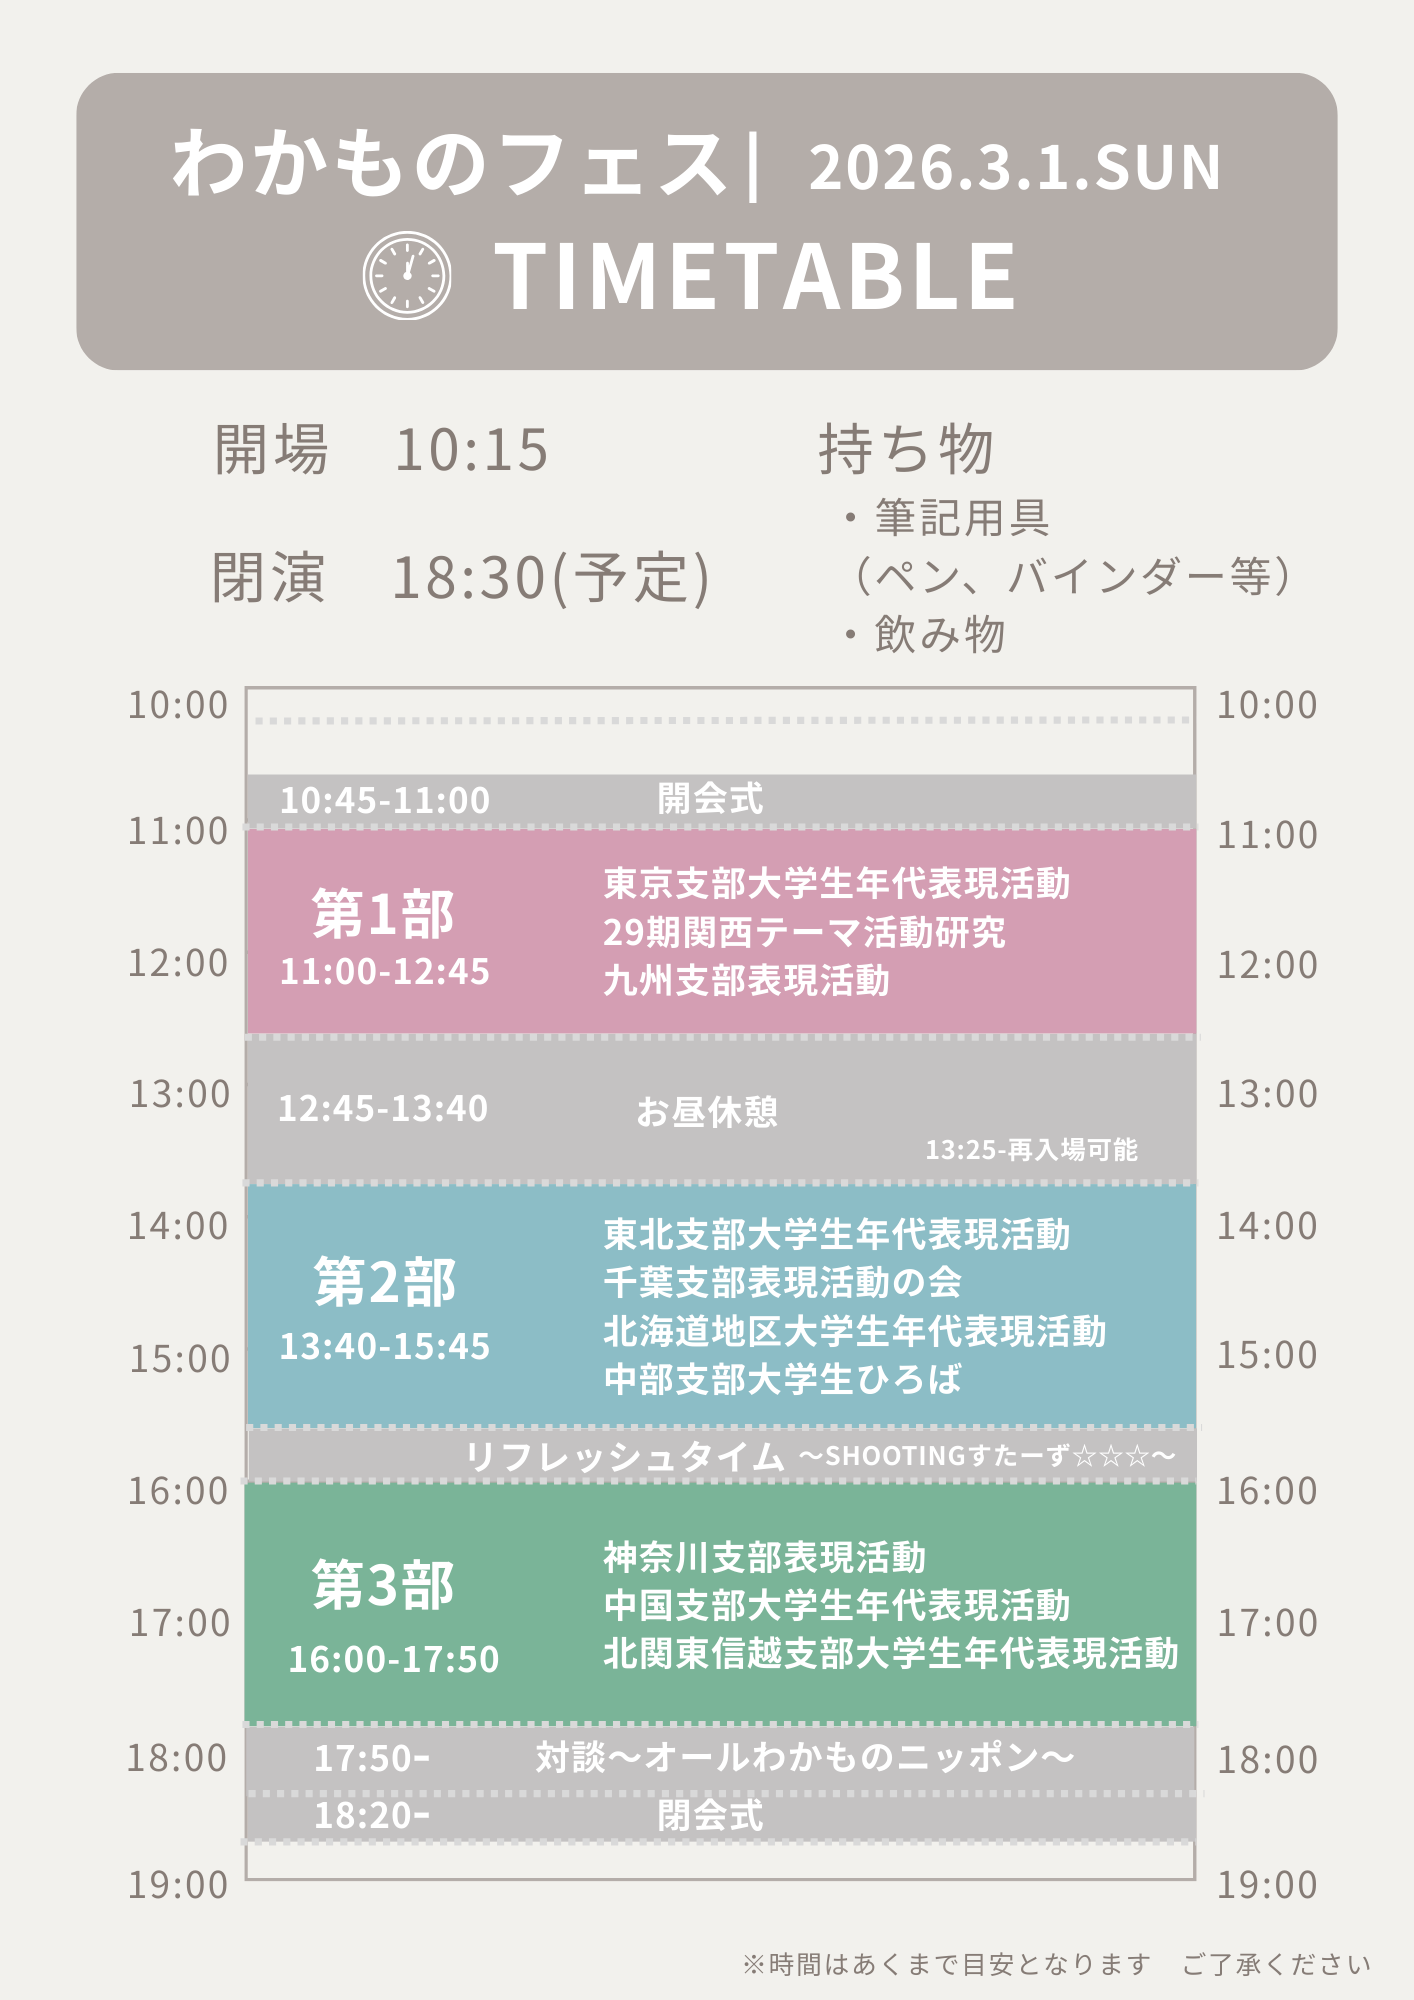
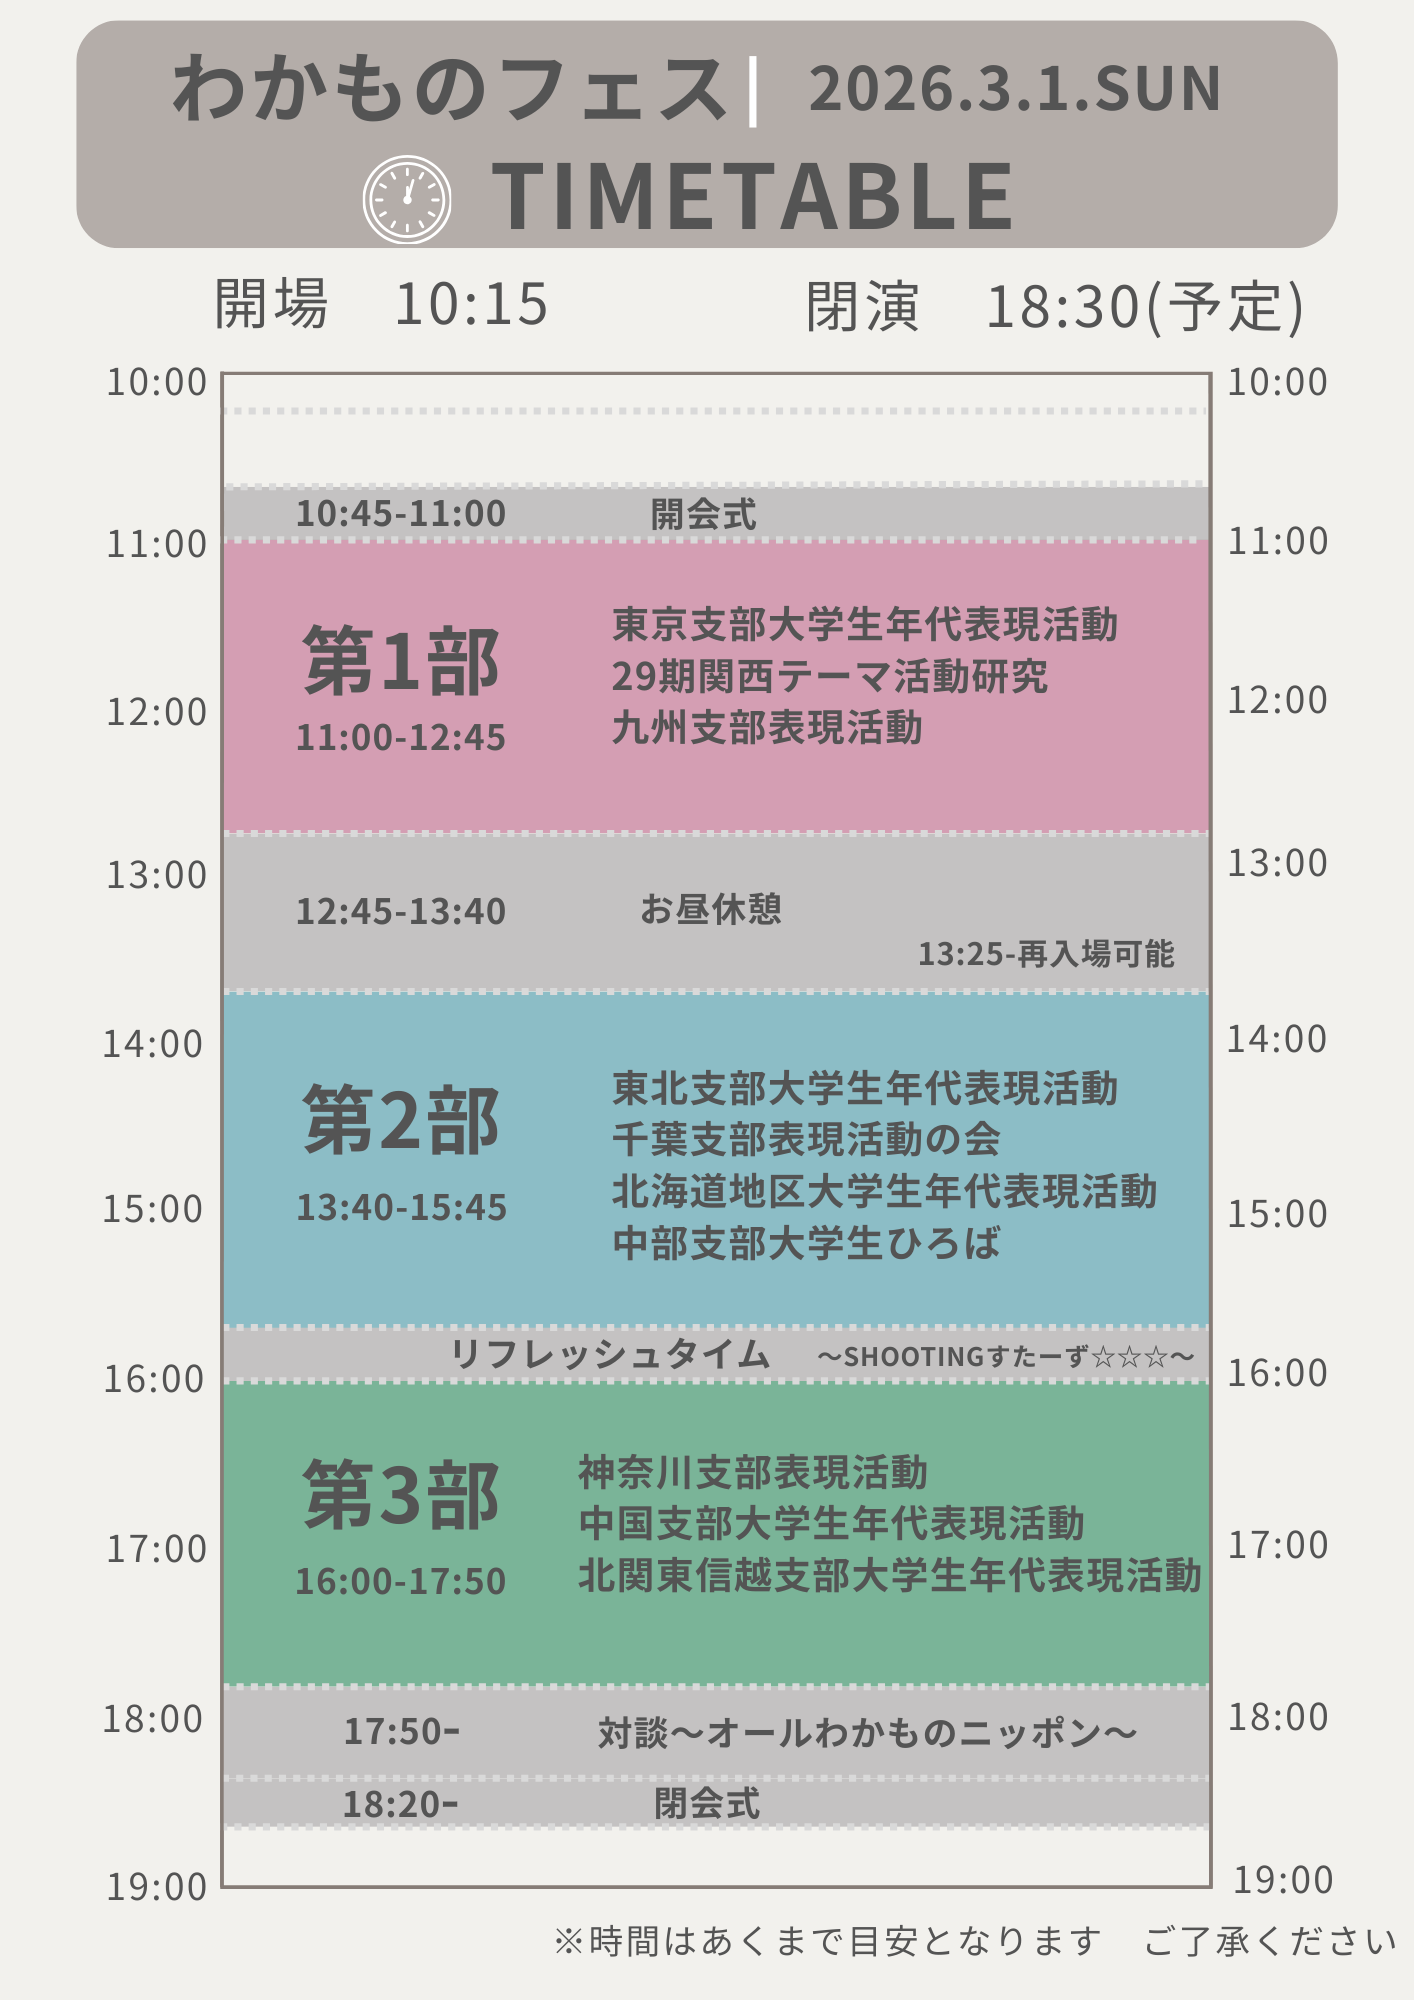
kenr

diff --git a/fest.html b/fest.html
@@ -157,44 +157,6 @@
     <div class="center">
       <img src="assets/img/fest_program.png" style="width: 70%; overflow: hidden;">
     </div>-->
-
-    <!-- 画像の名前変更必須 -->
-    <!--
-  <h2>発表者団体</h2><br>
-<div class="cp_cssslider04">
-  <div class="mask">
-  <ul>
-    <li><a href="#"><img src="assets/img/東北.jpeg" /></a>
-    <div class="tooltip"><h1>東北支部</h1></div></li>
-
-    <li><a href="#"><img src="assets/img/北関.jpeg" /></a>
-    <div class="tooltip"><h1>北関東信越支部</h1></div></li>
-
-    <li><a href="#"><img src="assets/img/東京.jpeg" /></a>
-    <div class="tooltip"><h1>東京支部</h1></div></li>
-
-    <li><a href="#"><img src="assets/img/千葉.jpeg" /></a>
-    <div class="tooltip"><h1>千葉支部</h1></div></li>
-
-    <li><a href="#"><img src="assets/img/神奈川.jpeg" /></a>
-    <div class="tooltip"><h1>神奈川支部</h1></div></li>
-
-    <li><a href="#"><img src="assets/img/中部.jpeg" /></a>
-    <div class="tooltip"><h1>中部支部</h1></div></li>
-
-    <li><a href="#"><img src="assets/img/関西.jpeg" /></a>
-    <div class="tooltip"><h1>関西支部</h1></div></li>
-
-    <li><a href="#"><img src="assets/img/中国・四国.jpeg" /></a>
-    <div class="tooltip"><h1>中国・四国支部</h1></div></li>
-
-  <li><a href="#"><img src="assets/img/九州.jpeg" /></a>
-    <div class="tooltip"><h1>九州支部</h1></div></li>
-  </ul>
-  </div>
-  <div class="cp_progressbar"></div>
-</div>
--->
     <hr class="line">
     <div class="space_big"></div>
     <div class="font_wide center size20">館内情報</div><!-- 会場のホームページから画像持ってくる -->

diff --git a/about‐2.html b/about‐2.html
@@ -108,6 +108,29 @@
   display:flex;
   justify-content: space-around;
 }
+
+/* スライドショー */
+.slideshow {
+  width: 800px;
+  height: 400px;
+  overflow: hidden;
+  position: relative;
+}
+
+.slideshow img {
+  width: 800px;
+  height: 400px;
+  object-fit: cover;
+  position: absolute;
+  top: 0;
+  left: 0;
+  opacity: 0;
+  transition: opacity 1s ease-in-out; /* フェードアニメーション */
+}
+
+.slideshow img.active {
+  opacity: 1; /* 表示する画像の透明度を変更 */
+}
 </style>
 
 <body data-page="about">
@@ -148,6 +171,11 @@
   <!--パンフみたいに日本地図できるかな？（目次）-->
   <!--手動のスライドはフェスページでもいいかも-->
   <!--北海道と中四国の書き方、正式名称で書くのか場所だけで書くのか-->
+  <div class="slideshow">
+    <img src="assets/img/Comingboard.png" alt="Slide 1" class="active">
+    <img src="assets/img/ComingW.png" alt="Slide 2">
+    <img src="assets/img/Comingski.png" alt="Slide 3">
+  </div>
   <div>
     <p>北海道</p>
     <!--目次を押したらそれぞれの箇所へ移動、集合写真と各ページへのボタンを配置-->

diff --git a/assets/js/main.js b/assets/js/main.js
@@ -337,3 +337,17 @@ function transform(section) {
   });
   scrollSection.style.transform = `translateX(${-maxScroll * progress}px)`;
 }
+
+//発表者団体、スライドショー
+// HTML内のすべての画像を取得
+const slides = document.querySelectorAll('.slideshow img');
+// 現在のスライドインデックスを初期化
+let currentIndex = 0;
+// 画像を切り替える関数
+const changeImage = () => {
+  slides[currentIndex].classList.remove('active'); // 現在の画像を非表示
+  currentIndex = (currentIndex + 1) % slides.length; // 次の画像のインデックスを計算
+  slides[currentIndex].classList.add('active'); // 次の画像を表示
+};
+// 3秒ごとに画像を切り替える
+setInterval(() => changeImage(), 3000);
